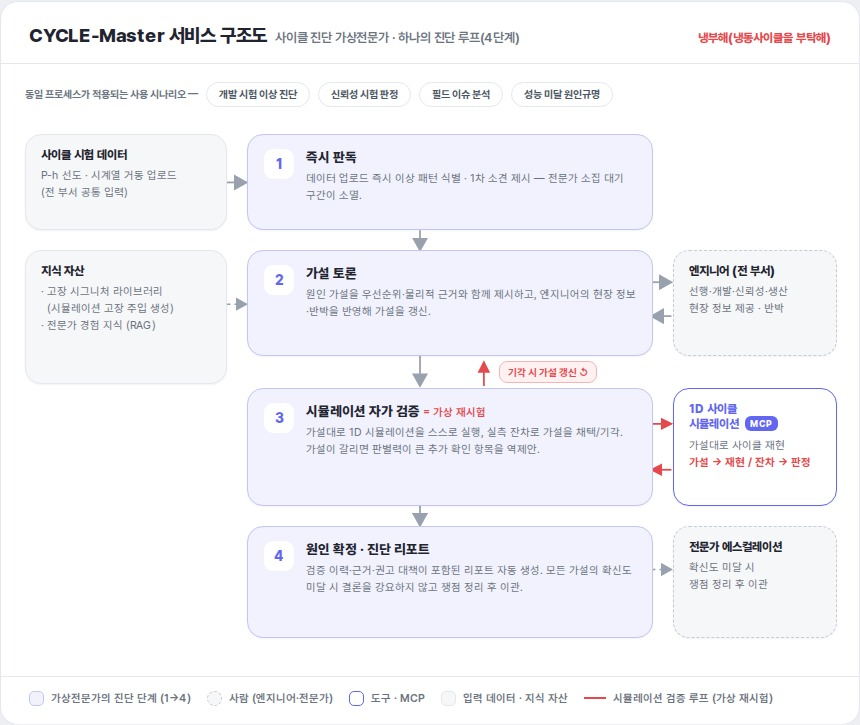
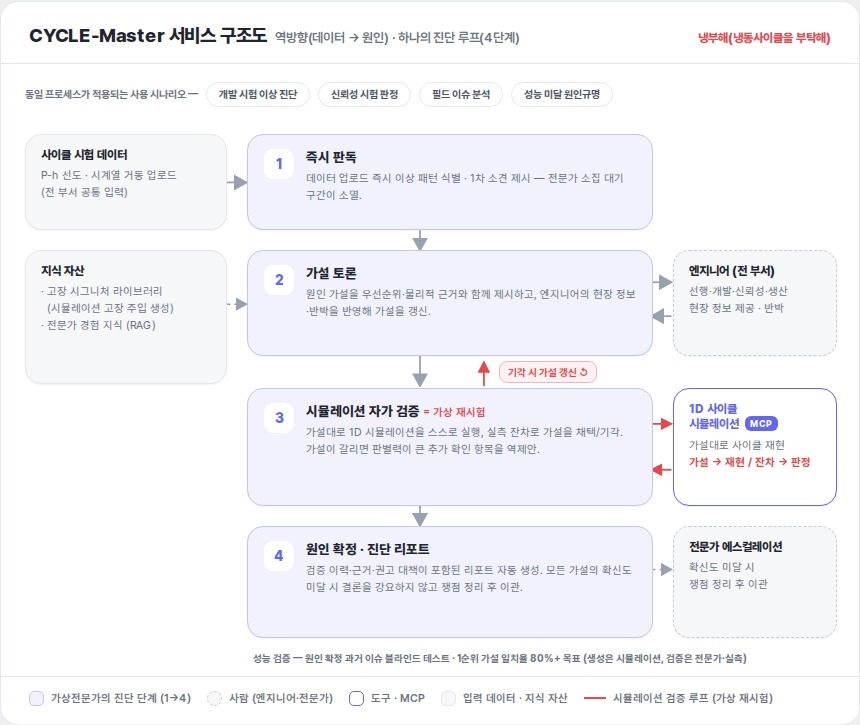
구조도(제출 규격) 심사 대응 보완
- 부제에 순방향/역방향 프레임 명시: THERMA-Crew(요구사양→설계안) vs CYCLE-Master(데이터→원인)
- CYCLE-Master에 성능 검증 각주 추가: 과거 이슈 블라인드 테스트, 1순위 가설 일치율 80%+ 목표

Changed region(s): [[0.3023, 0.88, 0.8767, 0.9103], [0.3023, 0.0303, 0.4535, 0.0607]]

diff --git a/diagrams/expert/AX_구조도.html b/diagrams/expert/AX_구조도.html
@@ -79,7 +79,7 @@
 <!-- ============ 1팀 THERMA-Crew ============ -->
 <div class="canvas" id="c1">
   <div class="head">
-    <div class="t">THERMA-Crew 서비스 구조도<small>가상 선행연구팀 · 과제 유형별 분기 → 공통 백본 수렴</small></div>
+    <div class="t">THERMA-Crew 서비스 구조도<small>순방향(요구사양 → 설계안) · 과제 유형별 분기 → 공통 백본 수렴</small></div>
     <div class="team">VirtualCycle선행Project</div>
   </div>
 
@@ -193,7 +193,7 @@
 <!-- ============ 2팀 CYCLE-Master ============ -->
 <div class="canvas" id="c2">
   <div class="head">
-    <div class="t">CYCLE-Master 서비스 구조도<small>사이클 진단 가상전문가 · 하나의 진단 루프(4단계)</small></div>
+    <div class="t">CYCLE-Master 서비스 구조도<small>역방향(데이터 → 원인) · 하나의 진단 루프(4단계)</small></div>
     <div class="team">냉부해(냉동사이클을 부탁해)</div>
   </div>
 
@@ -294,6 +294,7 @@
 
     <!-- 라벨 -->
     <div class="lbl red" style="left:498px;top:297px;background:var(--red-soft);border:1px solid var(--red-bd);padding:3px 8px;border-radius:8px">기각 시 가설 갱신 ↺</div>
+    <div class="lbl" style="left:246px;top:586px">성능 검증 — 원인 확정 과거 이슈 블라인드 테스트 · 1순위 가설 일치율 80%+ 목표 (생성은 시뮬레이션, 검증은 전문가·실측)</div>
   </div>
 
   <div class="legend">

diff --git a/tools/make_svg.py b/tools/make_svg.py
@@ -69,7 +69,7 @@ def chip(x,y,text,w=None,fg="#4B5563",bg="#fff",bd=BD,size=10.5):
 OY=72; W=860; H1=OY+888+50
 c1=[f'<svg xmlns="http://www.w3.org/2000/svg" width="{W}" height="{H1}" viewBox="0 0 {W} {H1}" font-family="{FONT}">',
     DEFS, rect(0.75,0.75,W-1.5,H1-1.5,"#fff",BD,rx=18),
-    header("THERMA-Crew 서비스 구조도","가상 선행연구팀 · 과제 유형별 분기 → 공통 백본 수렴","VirtualCycle선행Project")]
+    header("THERMA-Crew 서비스 구조도","순방향(요구사양 → 설계안) · 과제 유형별 분기 → 공통 백본 수렴","VirtualCycle선행Project")]
 def Y(y): return y+OY
 
 # 스파인·연결선
@@ -151,7 +151,7 @@ open('THERMA-Crew_구조도.svg','w',encoding='utf-8').write(''.join(c1))
 H2=OY+612+50
 c2=[f'<svg xmlns="http://www.w3.org/2000/svg" width="{W}" height="{H2}" viewBox="0 0 {W} {H2}" font-family="{FONT}">',
     DEFS, rect(0.75,0.75,W-1.5,H2-1.5,"#fff",BD,rx=18),
-    header("CYCLE-Master 서비스 구조도","사이클 진단 가상전문가 · 하나의 진단 루프(4단계)","냉부해(냉동사이클을 부탁해)")]
+    header("CYCLE-Master 서비스 구조도","역방향(데이터 → 원인) · 하나의 진단 루프(4단계)","냉부해(냉동사이클을 부탁해)")]
 
 # 연결선
 c2.append(arrow(420,Y(166),420,Y(186)))
@@ -210,6 +210,7 @@ c2.append(lines(687,Y(505),["확신도 미달 시","쟁점 정리 후 이관"],l
 # 기각 라벨 칩
 c2.append(rect(498,Y(297),132,22,RED_S,RED_B,rx=8,sw=1))
 c2.append(txt(564,Y(312),"기각 시 가설 갱신 ↺",10,700,RED,anchor="middle"))
+c2.append(txt(246,Y(596),"성능 검증 — 원인 확정 과거 이슈 블라인드 테스트 · 1순위 가설 일치율 80%+ 목표 (생성은 시뮬레이션, 검증은 전문가·실측)",10,700,SUB))
 
 # 범례
 c2.append(f'<line x1="0" y1="{OY+612}" x2="{W}" y2="{OY+612}" stroke="{BD}" stroke-width="1"/>')
